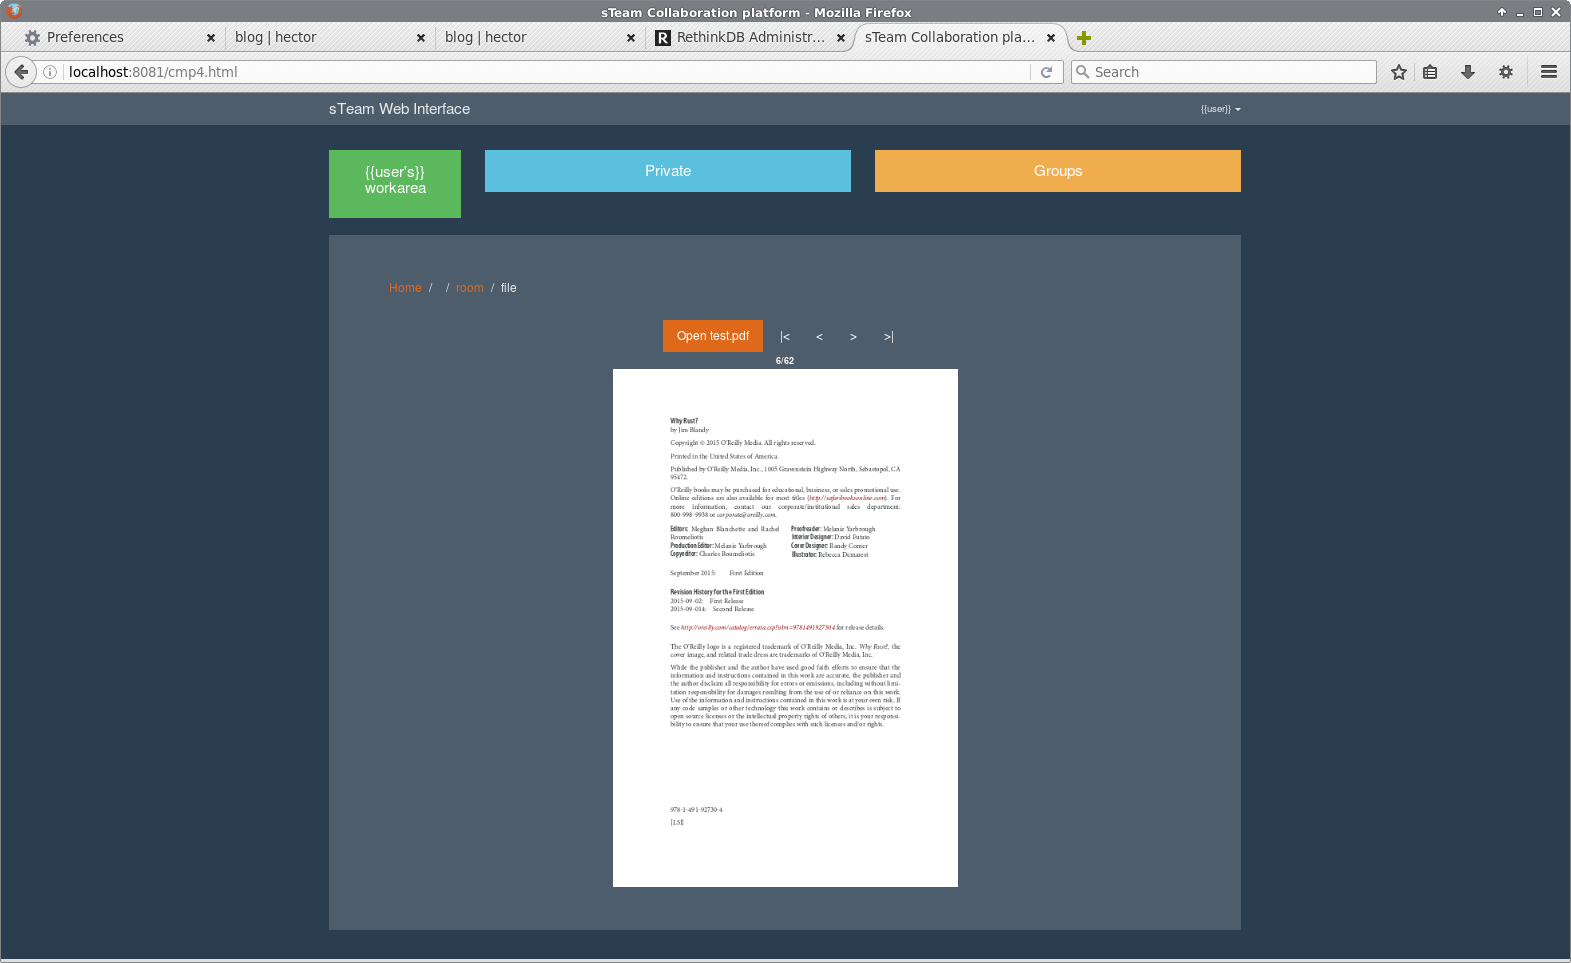
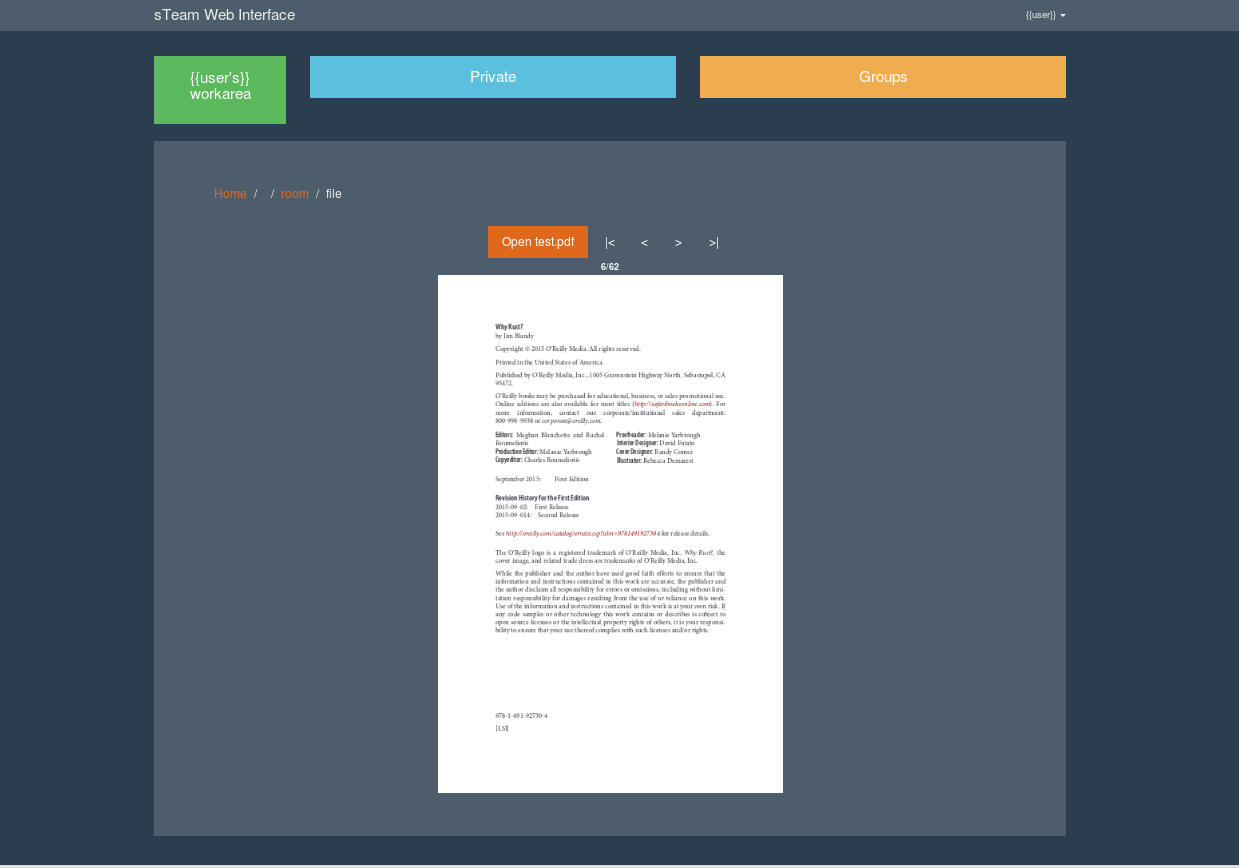
Added content for the pdf viewer and text editor blog post

diff --git a/blog/blogposts/pdfviewer.html b/blog/blogposts/pdfviewer.html
@@ -72,6 +72,12 @@
 						</p>
 
 						<p>
+						Here is the final outcome of it:
+						<img src="../img/week11gsoc2.png" width="800" height="500">
+						<img src="../img/week11gsoc3.png" width="800" height="500">
+						</p>
+
+						<p>
 							Thats it folks, <br>
 							<code>Happy Hacking !!</code>
 						</p>

diff --git a/blog/blogposts/texteditor.html b/blog/blogposts/texteditor.html
@@ -59,6 +59,11 @@
 					<div class="content">
 
 						<p>
+						Here is how it looks:
+						<img src="../img/week12gsoc2.png" width="800" height="500">
+						</p>
+
+						<p>
 							Thats it folks, <br>
 							<code>Happy Hacking !!</code>
 						</p>
